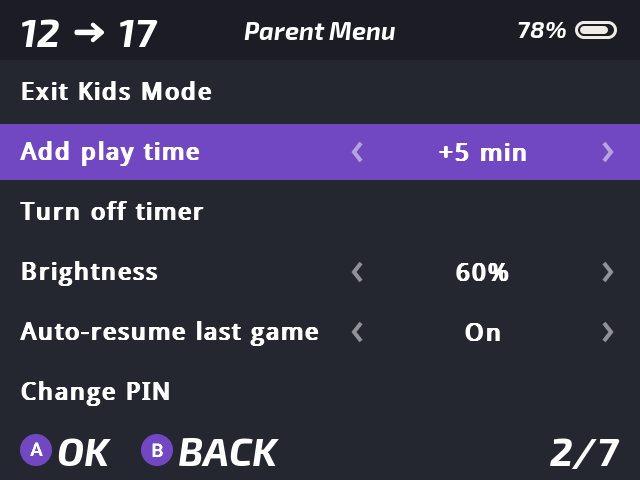
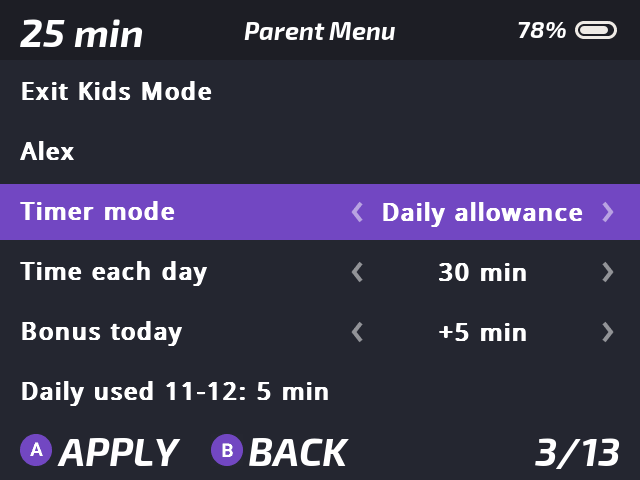
Refresh README screenshots from current Onion UI renders

diff --git a/README.md b/README.md
@@ -68,12 +68,26 @@ and an optional play timer.
 
 ## Screenshots
 
-| ![The kid's carousel](docs/screenshots/carousel.png) | ![Parent menu](docs/screenshots/parent-menu.png) | ![PIN screen](docs/screenshots/pin.png) |
-| :--: | :--: | :--: |
-| *The kid's carousel — one favorite at a time, box art and all; **A** plays, **X** starts over* | *Parent menu — play time with a live preview in the header, brightness, auto-resume and change PIN* | *The PIN gate — set once when arming; **A** confirms* |
+| Child carousel | Daily allowance |
+| :--: | :--: |
+| ![Current Kids Mode carousel with a fictional sample game and 25 minutes remaining](docs/screenshots/carousel.png) | ![Parent menu with Daily allowance, 30 minutes each day and Bonus today](docs/screenshots/parent-menu.png) |
+| Favorites-only browsing and remaining time | Recurring limit and today's bonus |
 
-*(These screenshots show the earlier session-only interface with Onion's stock
-theme. Current timer controls are described below; Kids Mode uses your active theme.)*
+| Single session | Child selection |
+| :--: | :--: |
+| ![Parent menu with Single session selected and a 20-minute handoff budget](docs/screenshots/single-session.png) | ![Who's playing screen with sample profiles Alex and Sam](docs/screenshots/children.png) |
+| One handoff, with its own duration and extra time | Select the child's separate saves and Daily budget |
+
+| Daily time exhausted | Parent PIN |
+| :--: | :--: |
+| ![Time's up screen saying More time tomorrow](docs/screenshots/timesup.png) | ![Parent access PIN screen](docs/screenshots/pin.png) |
+| Daily play stays blocked until renewal or parent bonus | PIN-protected parent controls |
+
+Captured from the current C UI in a local ARM64 Linux/SDL preview on an Apple Silicon
+Mac, using the pinned Onion stock theme at 640×480. These are local renders, not
+photographs of a handheld. Names, battery level and timer values are sample inputs;
+“Sample Adventure” and its geometric cover are fictional. No commercial ROM or game
+artwork is used. Your active Onion theme supplies the device's appearance.
 
 ## Requirements
 
